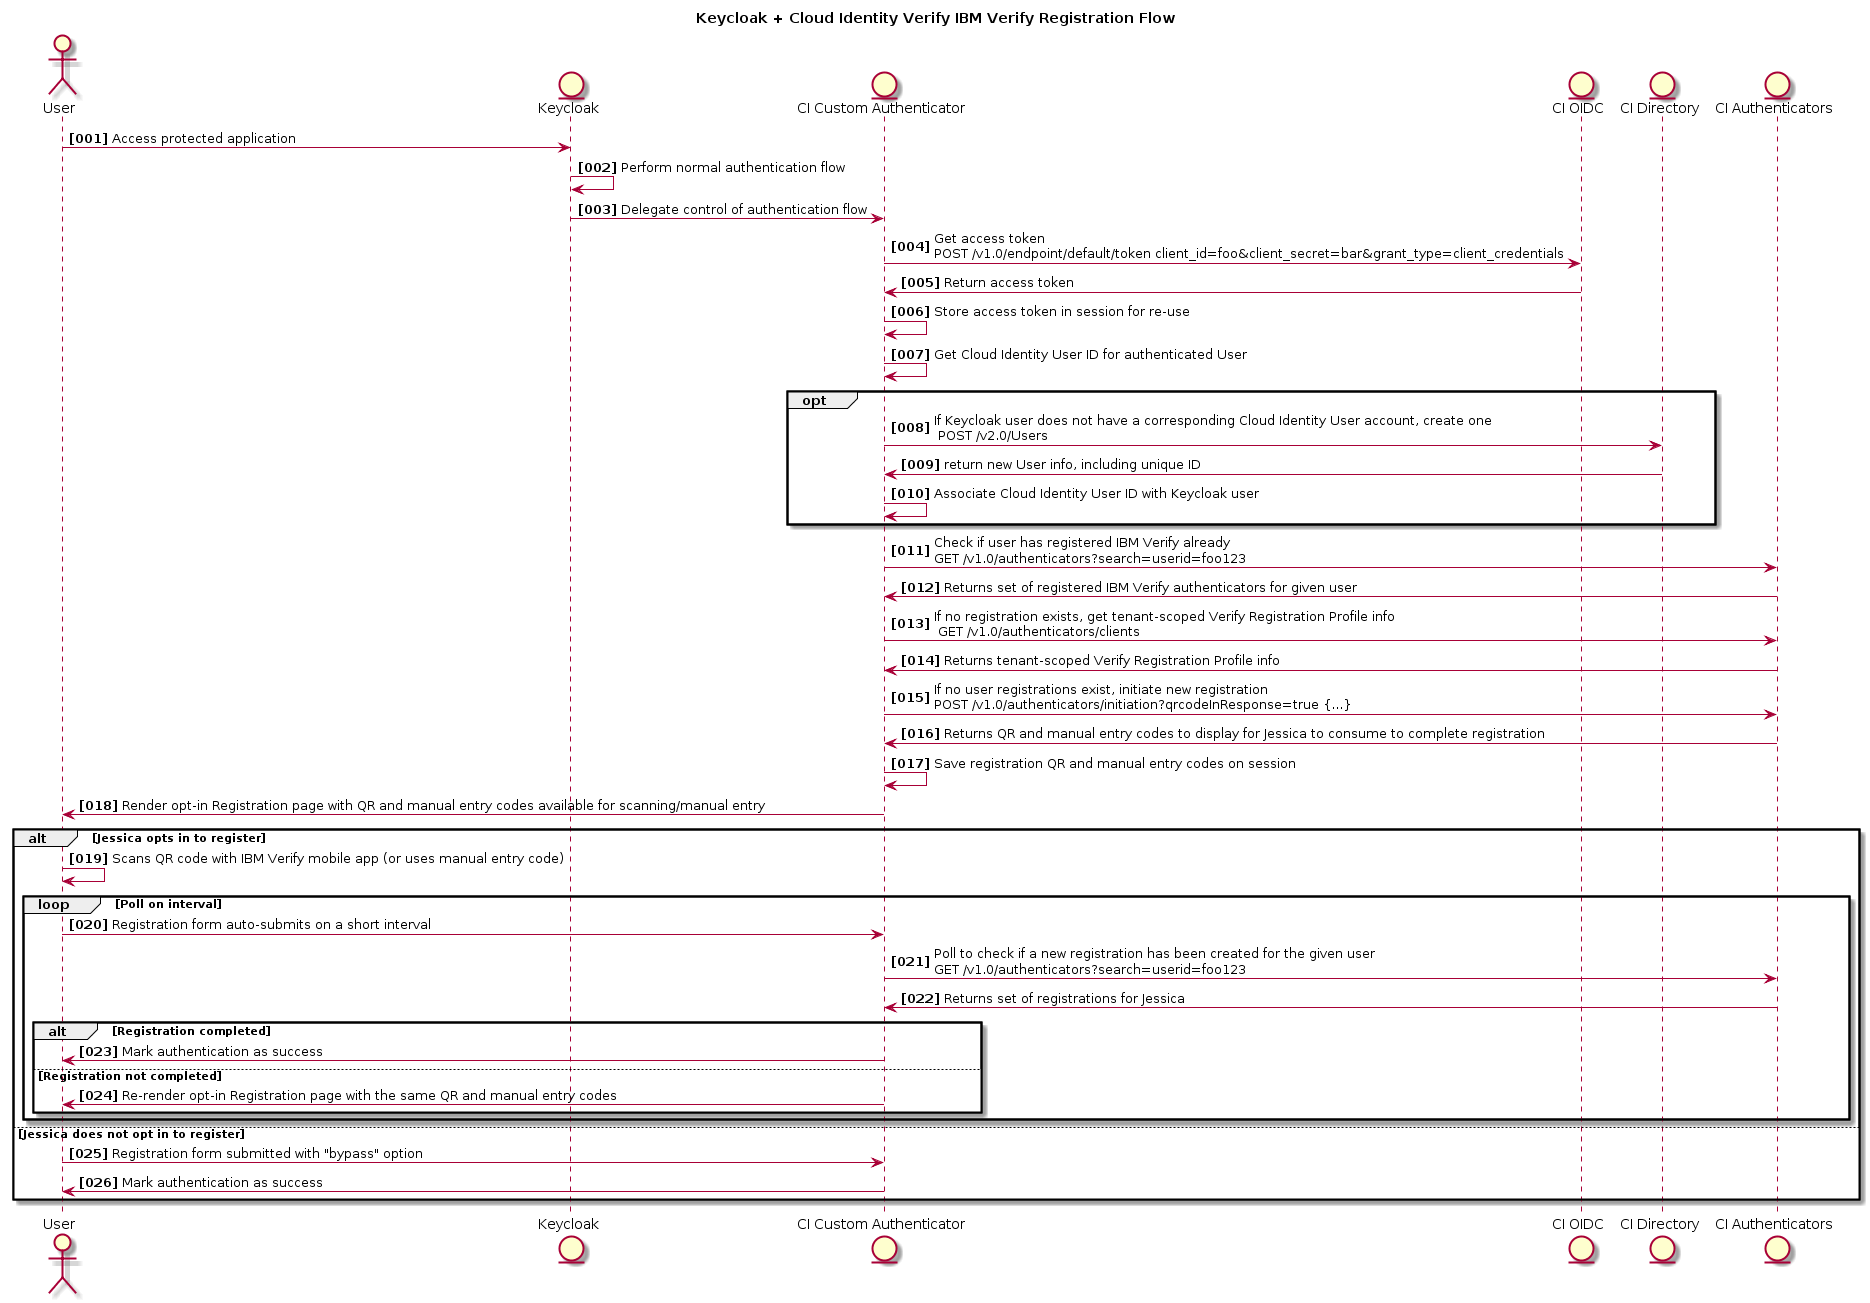
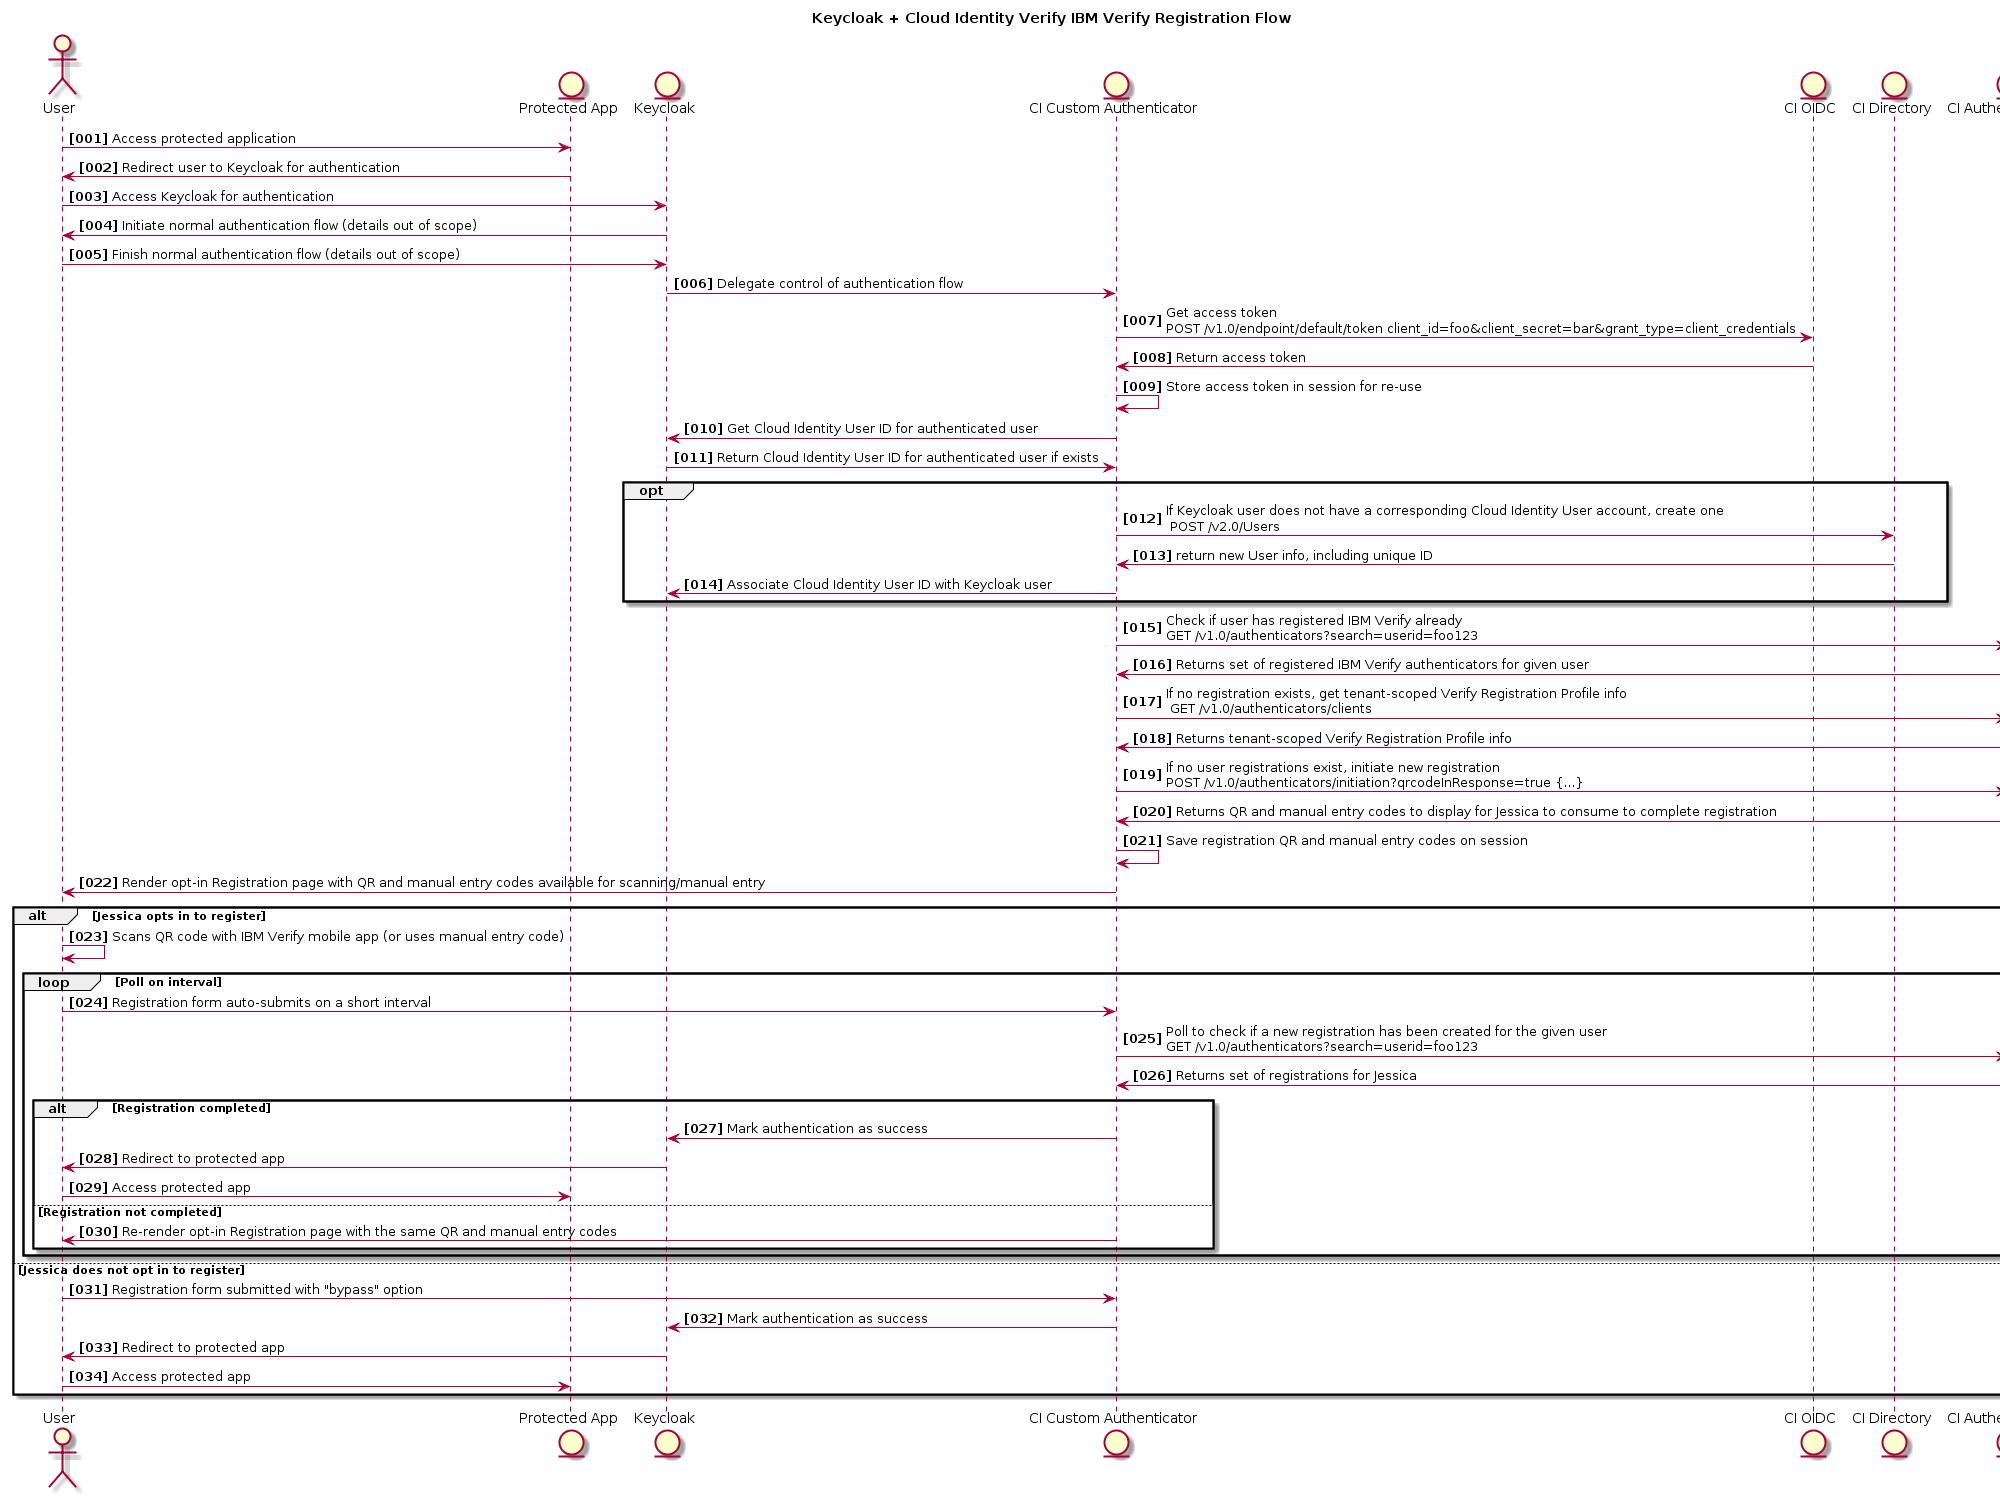
Update sequence diagram to make the protected application interaction and delegation to Keycloak more clear

diff --git a/hld.md b/hld.md
@@ -107,6 +107,7 @@ During a _normal_ authentication flow, Jessica will be prompted with an option t
 title Keycloak + Cloud Identity Verify IBM Verify Registration Flow
 
 actor User
+entity "Protected App" as App
 entity Keycloak
 entity "CI Custom Authenticator" as Authn
 entity "CI OIDC" as OIDC
@@ -114,17 +115,21 @@ entity "CI Directory" as Directory
 entity "CI Authenticators" as Authenticators
 
 autonumber "<b>[000]"
-User->Keycloak: Access protected application
-Keycloak->Keycloak: Perform normal authentication flow
+User->App: Access protected application
+App->User: Redirect user to Keycloak for authentication
+User->Keycloak: Access Keycloak for authentication
+Keycloak->User: Initiate normal authentication flow (details out of scope)
+User->Keycloak: Finish normal authentication flow (details out of scope)
 Keycloak->Authn: Delegate control of authentication flow
 Authn->OIDC: Get access token\nPOST /v1.0/endpoint/default/token client_id=foo&client_secret=bar&grant_type=client_credentials
 OIDC->Authn: Return access token
 Authn->Authn: Store access token in session for re-use
-Authn->Authn: Get Cloud Identity User ID for authenticated User
+Authn->Keycloak: Get Cloud Identity User ID for authenticated user
+Keycloak->Authn: Return Cloud Identity User ID for authenticated user if exists
 opt
     Authn->Directory: If Keycloak user does not have a corresponding Cloud Identity User account, create one\n POST /v2.0/Users
     Directory->Authn: return new User info, including unique ID
-    Authn->Authn: Associate Cloud Identity User ID with Keycloak user
+    Authn->Keycloak: Associate Cloud Identity User ID with Keycloak user
 end
 Authn->Authenticators: Check if user has registered IBM Verify already\nGET /v1.0/authenticators?search=userid=foo123
 Authenticators->Authn: Returns set of registered IBM Verify authenticators for given user
@@ -141,14 +146,18 @@ alt Jessica opts in to register
         Authn->Authenticators: Poll to check if a new registration has been created for the given user\nGET /v1.0/authenticators?search=userid=foo123
         Authenticators->Authn: Returns set of registrations for Jessica
         alt Registration completed
-            Authn->User: Mark authentication as success
+            Authn->Keycloak: Mark authentication as success
+            Keycloak->User: Redirect to protected app
+            User->App: Access protected app
         else Registration not completed
             Authn->User: Re-render opt-in Registration page with the same QR and manual entry codes
         end
     end
 else Jessica does not opt in to register
     User->Authn: Registration form submitted with "bypass" option
-    Authn->User: Mark authentication as success
+    Authn->Keycloak: Mark authentication as success
+    Keycloak->User: Redirect to protected app
+    User->App: Access protected app
 end
 @enduml
 
